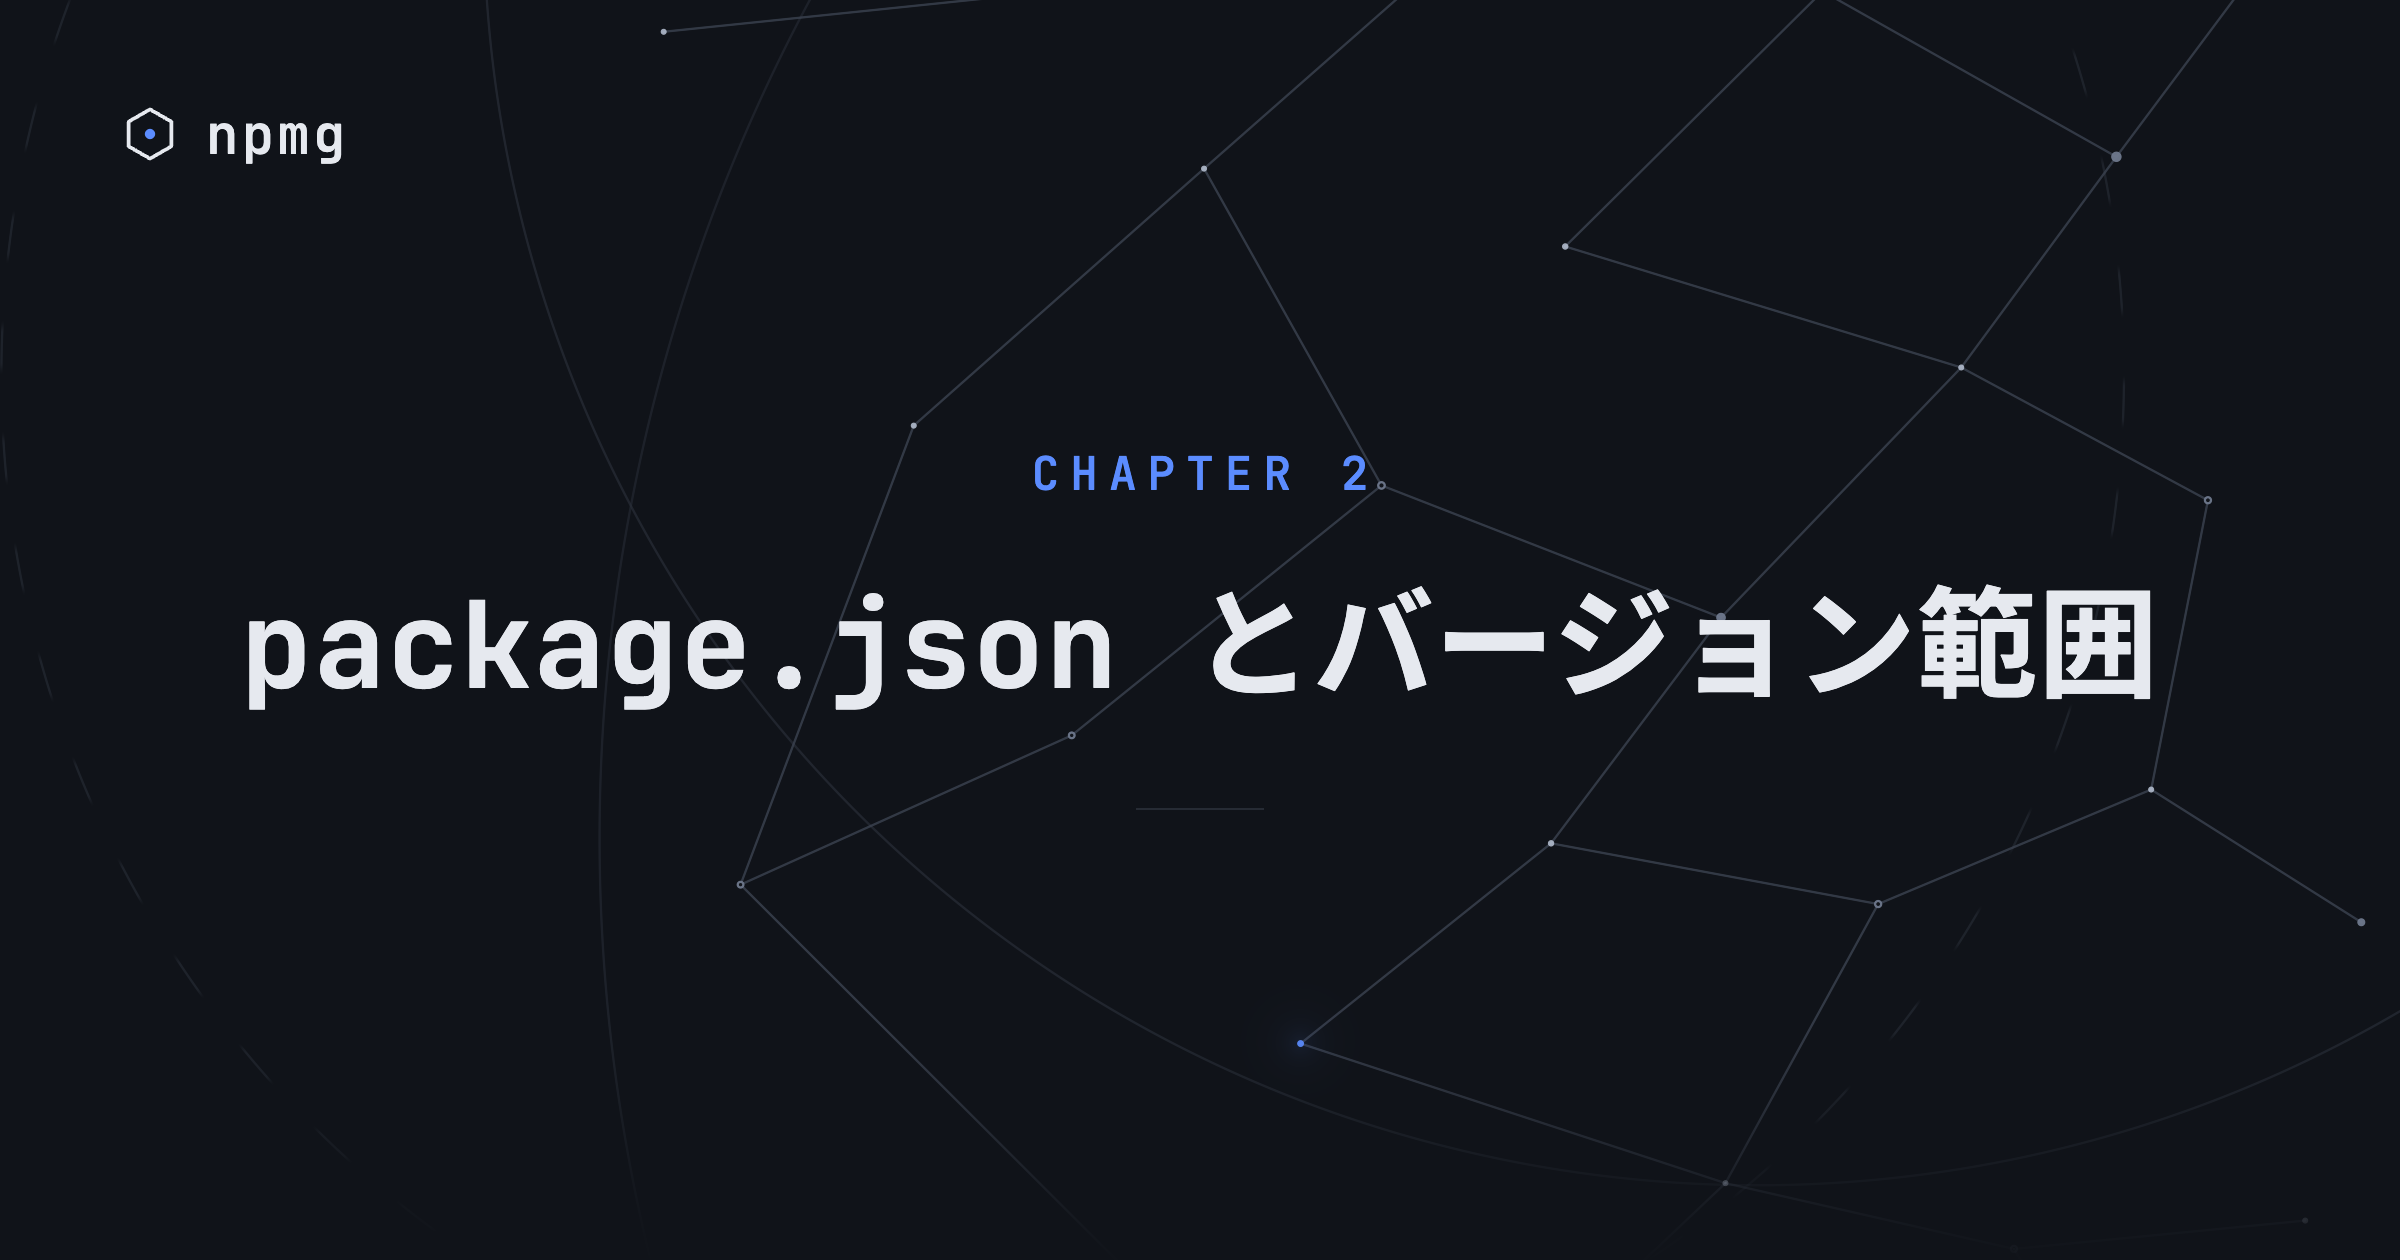
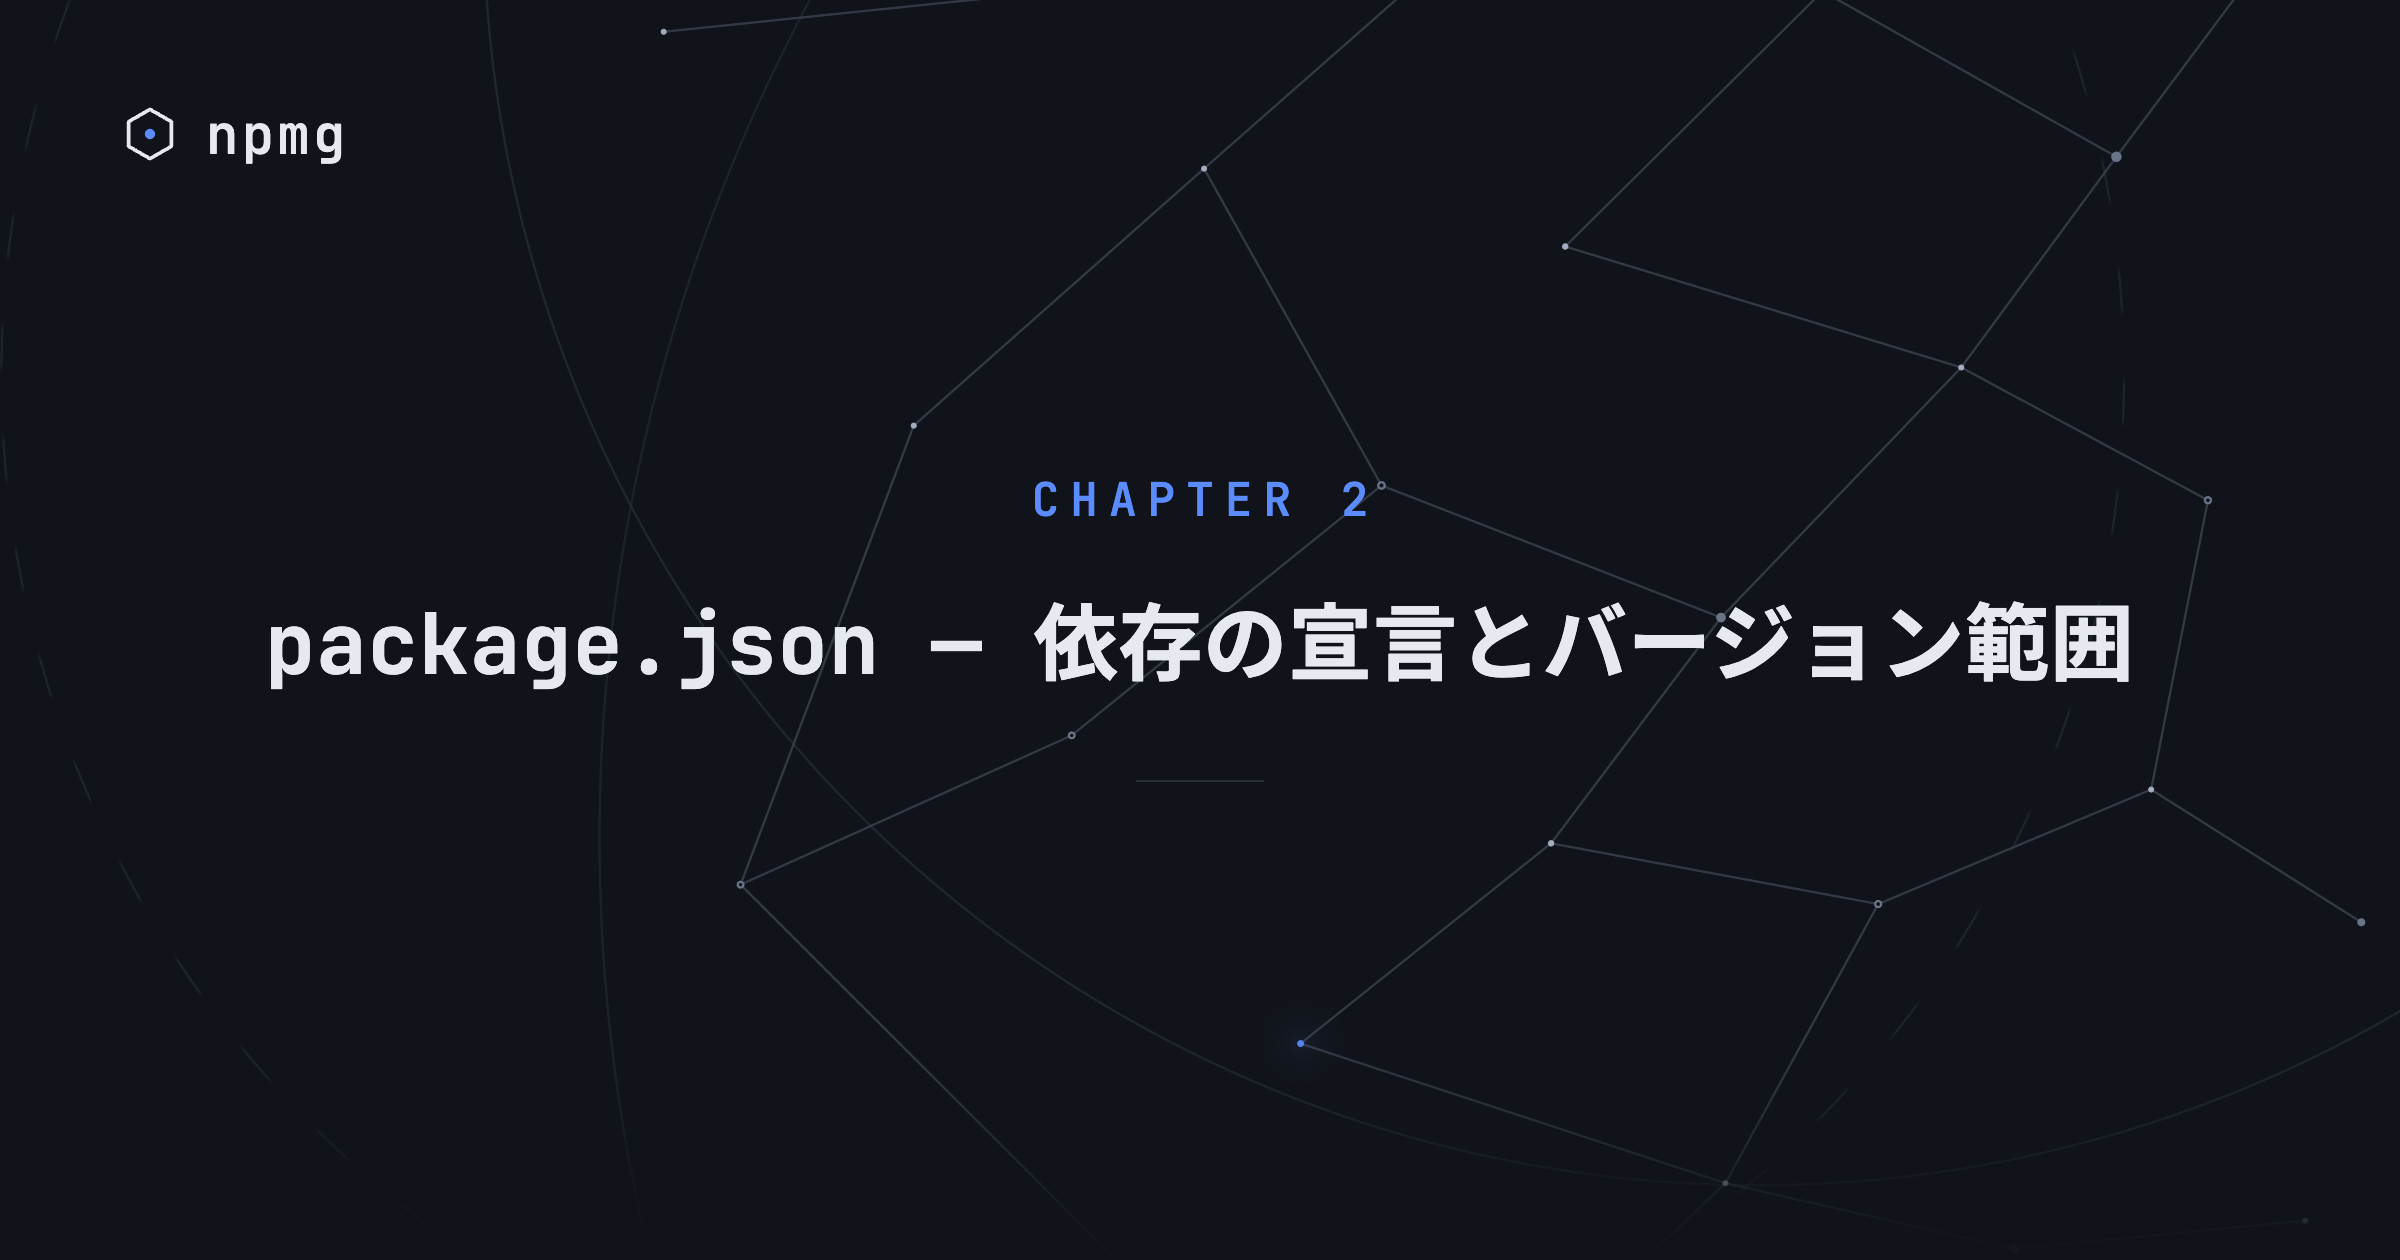
2 章の依存フィールド解説を深掘りし、章タイトルを実態に合わせる
「依存の 4 つの置き場所」が箇条書き 4 行しかなく、peerDependencies が
「結局なんだっけ」で終わっていたため、実測データで書き下ろした。

- dependencies と devDependencies の分岐基準を「伝染するか」で説明
- peerDependencies を react-dom の実例から解説。dependencies だと
  React の実体が二重化して Invalid hook call になる理由まで降ろす
- react 18 + react-dom 19 を実際にインストールし、npm の ERESOLVE と
  pnpm の警告 / pnpm peers check の出力を実測で採録
- --legacy-peer-deps は矛盾を消さず検出をやめるだけ、と明記
- optionalDependencies を vite の fsevents で説明し、
  ロックファイルの再現性の穴として 4 章へ接続
- 4 フィールドの早見表を追加

1 セクションが章の残り全部と同じ重さになっていたため、見出しを ## に
昇格して構成を平坦化。あわせて内容の 2/3 しか名乗っていなかった章題を
「package.json — 依存の宣言とバージョン範囲」に改題し、サイドバー・
執筆ガイドの対応表・OGP 画像を追随させた。

既存の崩れも 1 件修正(全角括弧の直後で太字が閉じていなかった)。

Changed region(s): [[0.0938, 0.4643, 0.9062, 0.5571], [0.4375, 0.3405, 0.5938, 0.4024]]

diff --git a/research/writing-guide.md b/research/writing-guide.md
@@ -131,7 +131,7 @@ Flat 2D vector infographic in a minimal technical-illustration style. Wide lands
 
 - はじめに: `/introduction`
 - 1. パッケージマネージャーとは何か: `/basics/01-what-is-a-package-manager`
-- 2. package.json とバージョン範囲: `/basics/02-package-json-and-semver`
+- 2. package.json — 依存の宣言とバージョン範囲: `/basics/02-package-json-and-semver`
 - 3. node_modules の構造: `/basics/03-node-modules`
 - 4. ロックファイルの役割: `/basics/04-lockfiles`
 - 5. npm の誕生と進化: `/history/05-npm`
